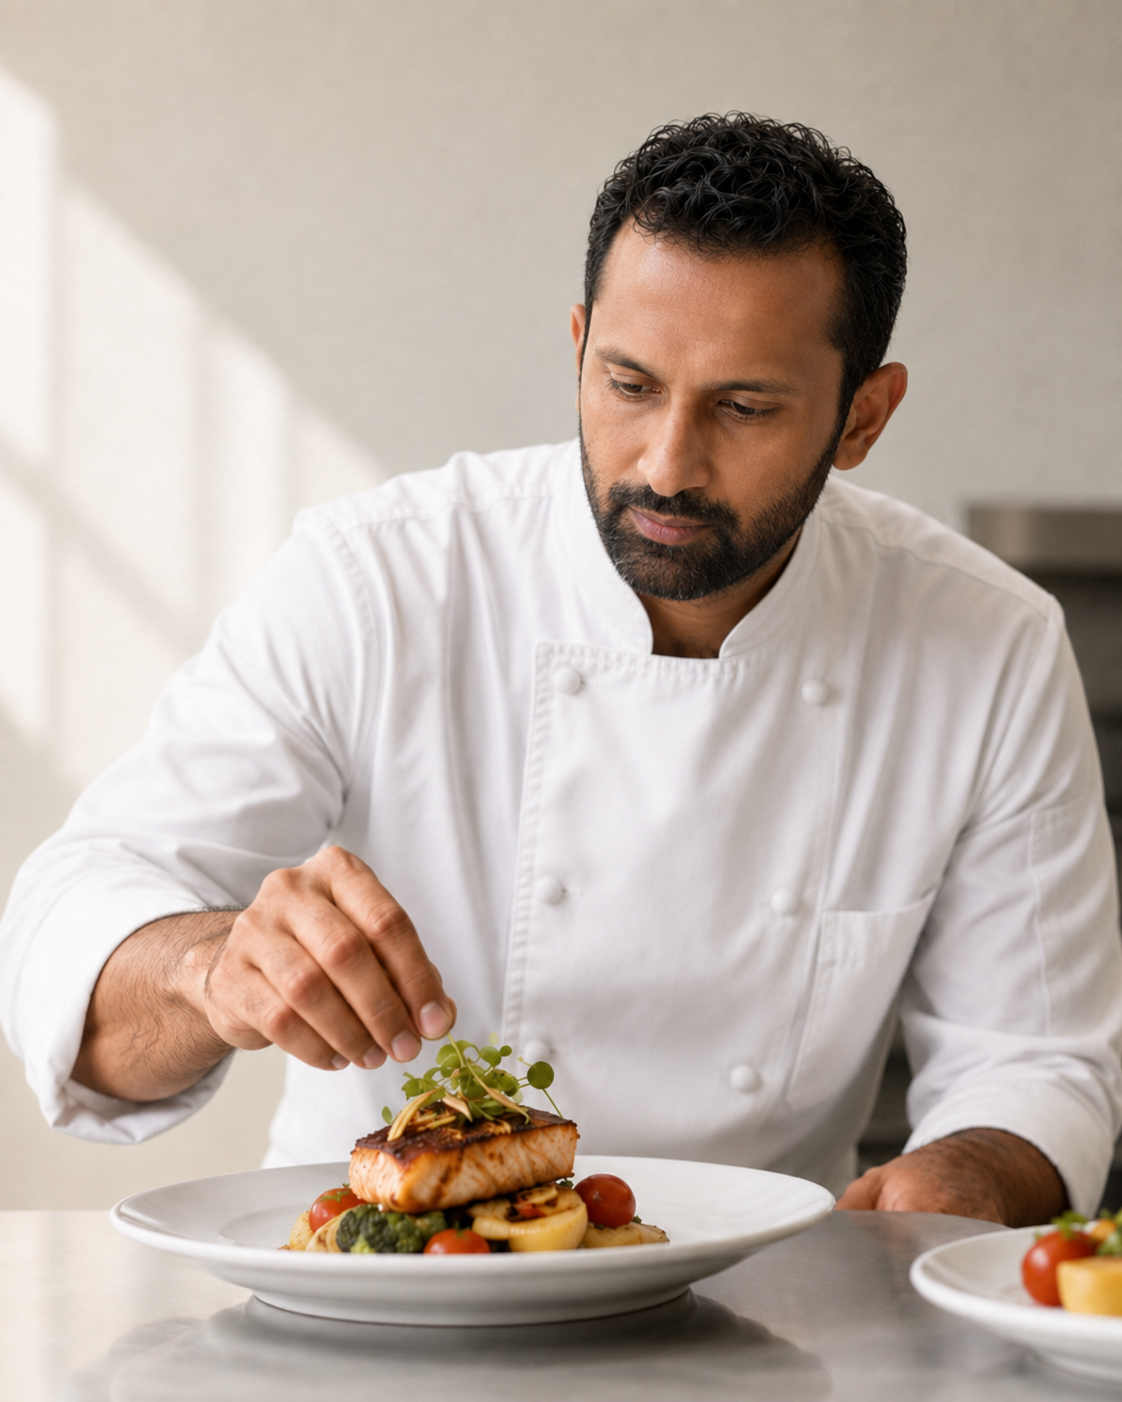
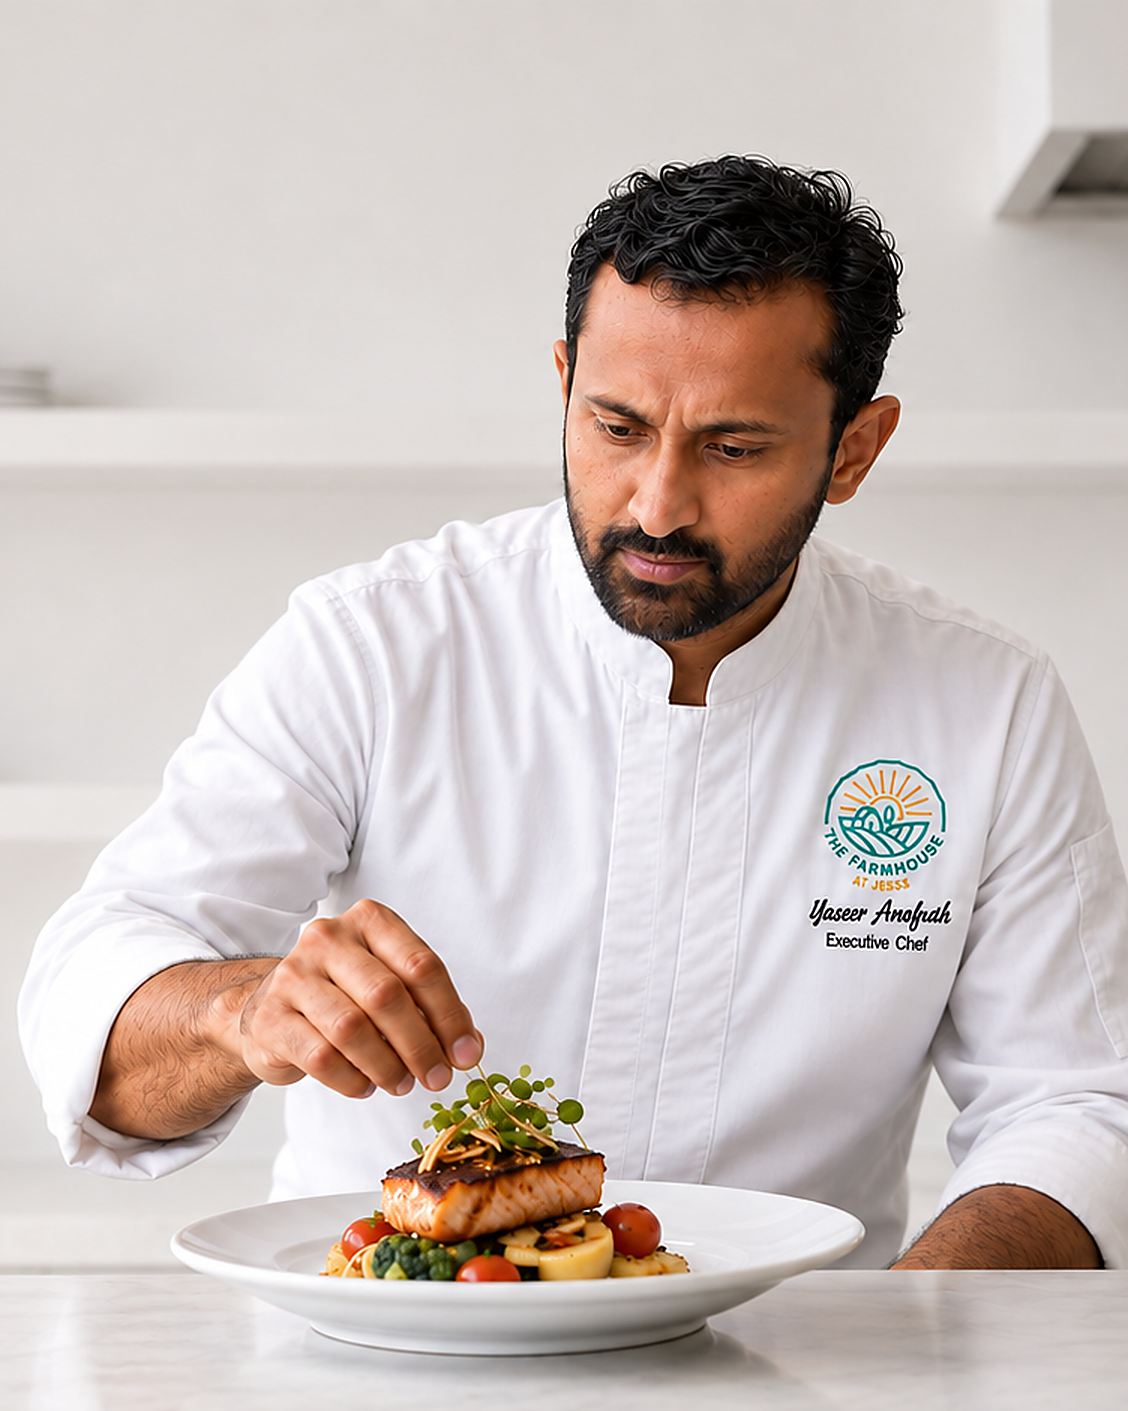
feat: generate high-res portrait arafath.png from hero.png and enable responsive hero for mobile

diff --git a/src/components/HeroSection.tsx b/src/components/HeroSection.tsx
@@ -12,17 +12,21 @@ export const HeroSection: React.FC<HeroSectionProps> = ({ onOpenPortfolioSubPage
   return (
     <section className="relative min-h-[90vh] sm:min-h-screen w-full flex items-center overflow-hidden bg-[#FAF9F6] text-[#1A1817] border-b border-[#E8E4DC]">
       
-      {/* Background Image: hero.png fills the WHOLE hero section cleanly */}
+      {/* Background Image: responsive hero asset (arafath.png for mobile portrait screens, hero.png for tablet & desktop) */}
       <div className="absolute inset-0 w-full h-full z-0 overflow-hidden pointer-events-none">
-        <img
-          src="/hero.png"
-          alt="Chef Yaseer Arafath Precision Micro-Plating"
-          referrerPolicy="no-referrer"
-          className="w-full h-full object-cover object-[70%_center] sm:object-right-center"
-        />
+        <picture>
+          <source media="(max-width: 639px)" srcSet="/arafath.png" />
+          <img
+            src="/hero.png"
+            alt="Chef Yaseer Arafath Precision Micro-Plating"
+            referrerPolicy="no-referrer"
+            className="w-full h-full object-cover object-center sm:object-right-center"
+          />
+        </picture>
         
-        {/* Scrim gradient ONLY on far-left behind text so hero photo is 100% crisp, clear, & vivid */}
-        <div className="absolute top-0 bottom-0 left-0 w-full sm:w-8/12 lg:w-6/12 bg-gradient-to-r from-[#FAF9F6] via-[#FAF9F6]/85 to-transparent z-10 pointer-events-none" />
+        {/* Scrim gradient: subtle bottom/top scrim on mobile, left scrim on desktop */}
+        <div className="absolute inset-0 bg-gradient-to-t from-[#FAF9F6] via-[#FAF9F6]/60 to-transparent sm:hidden z-10 pointer-events-none" />
+        <div className="hidden sm:block absolute top-0 bottom-0 left-0 w-8/12 lg:w-6/12 bg-gradient-to-r from-[#FAF9F6] via-[#FAF9F6]/85 to-transparent z-10 pointer-events-none" />
       </div>
 
       <div className="max-w-7xl mx-auto px-4 sm:px-6 lg:px-8 w-full relative z-20 pt-24 sm:pt-36 pb-12 sm:pb-24">
